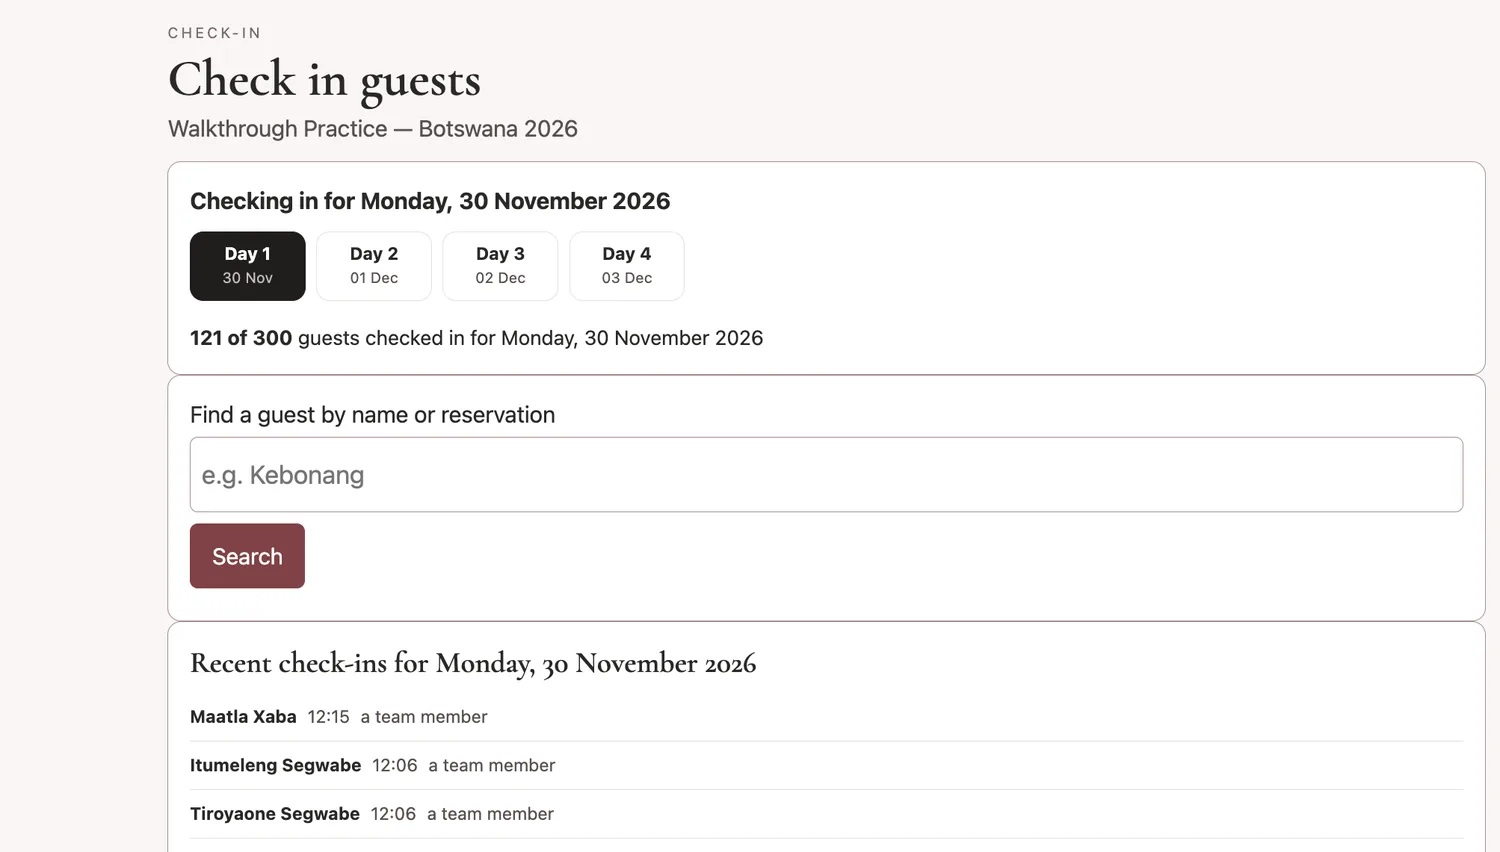
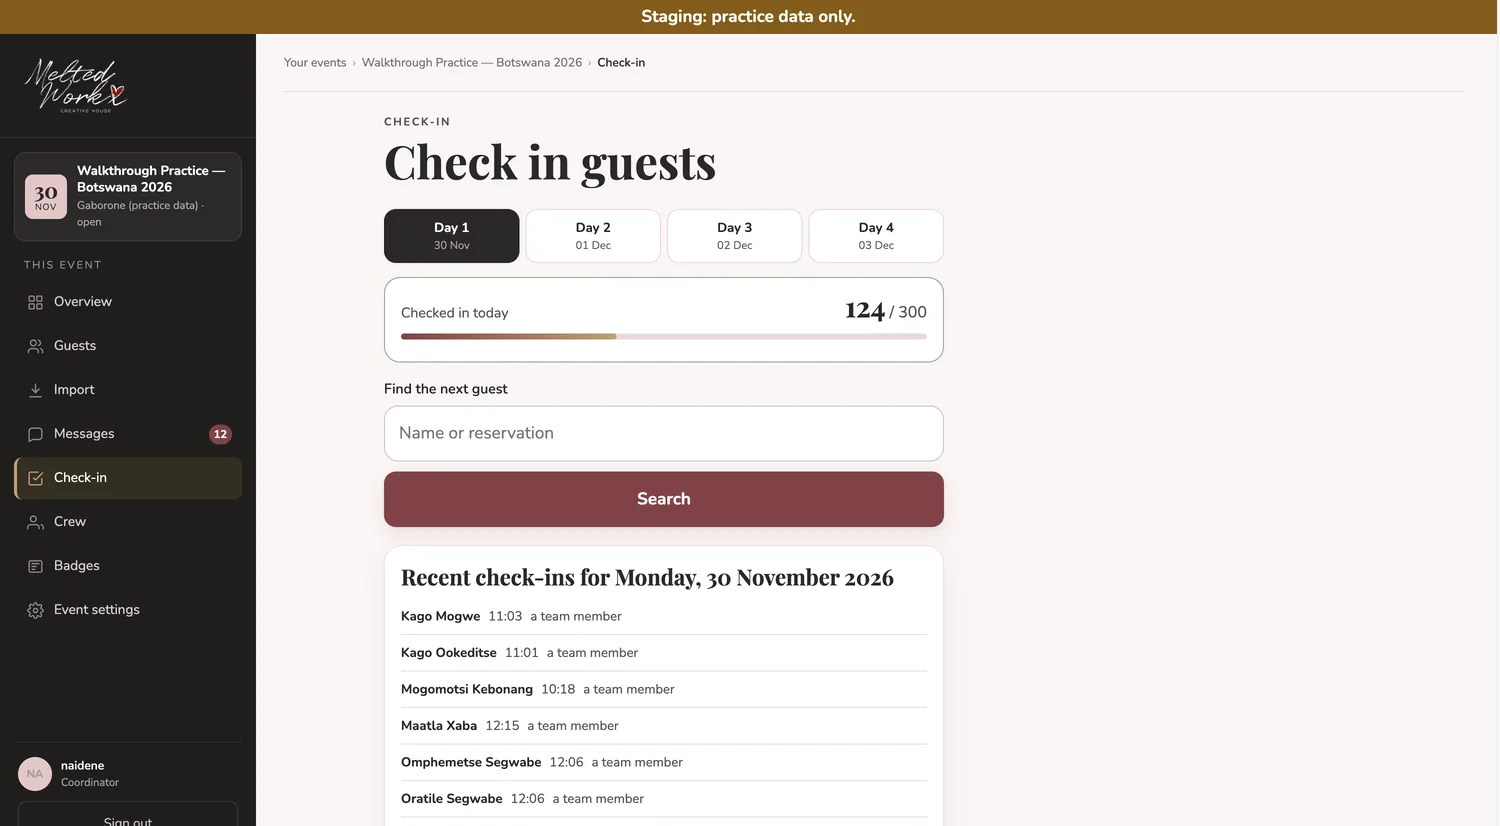
Guide: new Overview and check-in screenshots with re-aligned pins
Claude-Session: https://claude.ai/code/session_01N73uZ8eB831CeU7QP6mg8R

Changed region(s): [[0.0, 0.0, 1.0, 1.0], [0.552, 0.2724, 0.6133, 0.3027], [0.46, 0.2724, 0.5213, 0.3027]]

diff --git a/meltedworkx-001/guide/index.html b/meltedworkx-001/guide/index.html
@@ -180,19 +180,25 @@ const LESSONS=[
 {id:"morning-check",name:"The morning check",eyebrow:"Lesson 3",title:"The morning check",
  why:"One page replaces the sheets and the chats. Thirty seconds here tells you where the event stands.",
  screens:[{label:"The four numbers",img:"overview-top",pins:[
-  P(13.8,51.2,"The menu","Everything about this event: Overview, Guests, Import, Messages, Check-in, Crew, Badges and Event settings. Overview is this page."),
-  P(49.5,30.5,"Open the check-in desk","A shortcut to the check-in desk. Lesson 9 shows how to use it."),
-  P(32.1,37.5,"Guests","Everyone in the event."),
-  P(50.3,37.5,"Check-ins","How many check-ins have been recorded. The small line under it says how many days they cover."),
-  P(68.1,37.5,"Messages sent","Messages that went out to guests."),
-  P(86.0,37.5,"Failed","In red because a person needs to look. A small line under it says how many need a look. Lesson 8 shows what to do.")],
-  steps:["Open your event. You land on <b>Overview</b>.","Read the four numbers from left to right.","If the red number is not zero, scroll down to <b>Needs attention</b>."]},
+  P(15.3,60.3,"The menu","Everything about this event: Overview, Guests, Import, Messages, Check-in, Crew, Badges and Event settings. Overview is this page."),
+  P(77.3,37.8,"Open the check-in desk","A shortcut to the check-in desk. Lesson 9 shows how to use it."),
+  P(31.8,64.4,"Guests","Everyone in the event."),
+  P(50.1,64.4,"Check-ins","How many check-ins have been recorded. The small line under it says how many days they cover."),
+  P(69.9,64.4,"Messages sent","Messages that went out to guests."),
+  P(89.3,64.4,"Failed","In red because a person needs to look. A small line under it says how many need a look. Lesson 8 shows what to do."),
+  P(38.8,81.7,"Next steps","Plain-language to-do cards, for example failed messages to review or the shuttle list still to upload. Click a card to go straight there.")],
+  steps:["Open your event. You land on <b>Overview</b>.","Read the four numbers from left to right.","If the red number is not zero, look at <b>Next steps</b> and scroll down to <b>Needs attention</b>."]},
  {label:"The detail below",img:"overview-low",pins:[
-  P(49.36,23.72,"Check-in, day by day","Arrivals on Mon 30 Nov, then 1, 2 and 3 December. Each row shows the day, then how many guests are checked in, for example 121 of 300, with the percentage."),
-  P(41.5,57.85,"Who can be messaged","Only guests who ticked the agreement box can be messaged. Guests who said no, or were never asked, are blocked automatically."),
-  P(14,66.2,"Messages","Waiting, Sent, Failed and Blocked. Blocked means the guest has not agreed to be messaged."),
-  P(19,88.1,"Needs attention","Your to-do list, in plain words: messages that failed and rows in a file that need a human look.")],
-  steps:["Scroll down the Overview page.","Check <b>Needs attention</b> last. If it is empty, you are done."]}],
+  P(30.3,21.0,"Check-in, day by day","Arrivals on Mon 30 Nov, then 1, 2 and 3 December. Each row shows the day, then how many guests are checked in, for example 124 of 300, with the percentage. Open desk takes you to that day."),
+  P(50.5,62.9,"Who can be messaged","Only guests who ticked the agreement box can be messaged. Guests who said no, or were never asked, are blocked automatically."),
+  P(33.0,74.6,"Messages","Waiting to send, Sent, Failed, and Blocked for no permission. Blocked means the guest has not agreed to be messaged."),
+  P(38.0,93.6,"The failed messages","This link opens the messages that failed. Lesson 8 shows what to do with them.")],
+  steps:["Scroll down the Overview page.","Read the check-in rows day by day, then the <b>Messages</b> numbers."]},
+ {label:"Needs attention",img:"overview-attention",pins:[
+  P(34.9,52.1,"Needs attention","Your to-do list, in plain words: messages that failed, grouped by the reason, and rows in a file that need a human look."),
+  P(42.7,62.5,"One kind of problem","Each line is one reason, with how many guests it affects and the channel. Click View these to see them."),
+  P(71.0,93.4,"Import","The last file loaded, when, and how many rows were skipped. Open the import takes you back to it.")],
+  steps:["Scroll to the bottom of the Overview page.","Check <b>Needs attention</b> last. If it is empty, you are done."]}],
  quiz:{q:"A guest did not tick the agreement box on the form. Can the platform message them?",o:["Yes, if you choose WhatsApp","No. They are blocked automatically","Only on the day"],a:1,
   why:"No agreement, no message. The platform enforces it so nobody has to remember."}},
 
@@ -289,11 +295,11 @@ const LESSONS=[
 {id:"check-in",name:"Check guests in",eyebrow:"Lesson 9",title:"Check guests in",
  why:"On the day you find each guest by name, and check them in for that day.",
  screens:[{label:"The check-in desk",img:"checkin",pins:[
-  P(49.3,31.3,"Pick the day","Each button shows the day number and its date. Day 1 is arrivals on Mon 30 Nov. Days 2 to 4 are 1, 2 and 3 December."),
-  P(53.4,39.5,"Checked in today","How many guests are checked in for the day you chose, for example 121 / 300."),
-  P(94.5,55.7,"Find the next guest","Type part of a name or a reservation number."),
-  P(24.0,65.1,"Search","Click to see the matching guests, then check the right one in."),
-  P(53.4,77.6,"Recent check-ins","The last guests checked in, newest first.")],
+  P(63.4,28.5,"Pick the day","Each button shows the day number and its date. Day 1 is arrivals on Mon 30 Nov. Days 2 to 4 are 1, 2 and 3 December."),
+  P(36.0,37.8,"Checked in today","How many guests are checked in for the day you chose, for example 124 / 300."),
+  P(38.8,47.1,"Find the next guest","Type part of a name or a reservation number."),
+  P(60.0,60.4,"Search","Click to see the matching guests, then check the right one in."),
+  P(61.3,69.8,"Recent check-ins","The last guests checked in for that day, newest first.")],
   steps:["Click <b>Check-in</b> in the menu.","Make sure the right day is selected.","Type the guest's name, click <b>Search</b>, and check them in.","A green card then shows the guest's name, <b>Checked in for Day N</b>, the date and time, and their reservation."]},
  {label:"If the wifi drops",sketch:[
   ["Open the offline desk before doors open","Do it with wifi on, and wait until the guest list has loaded."],
